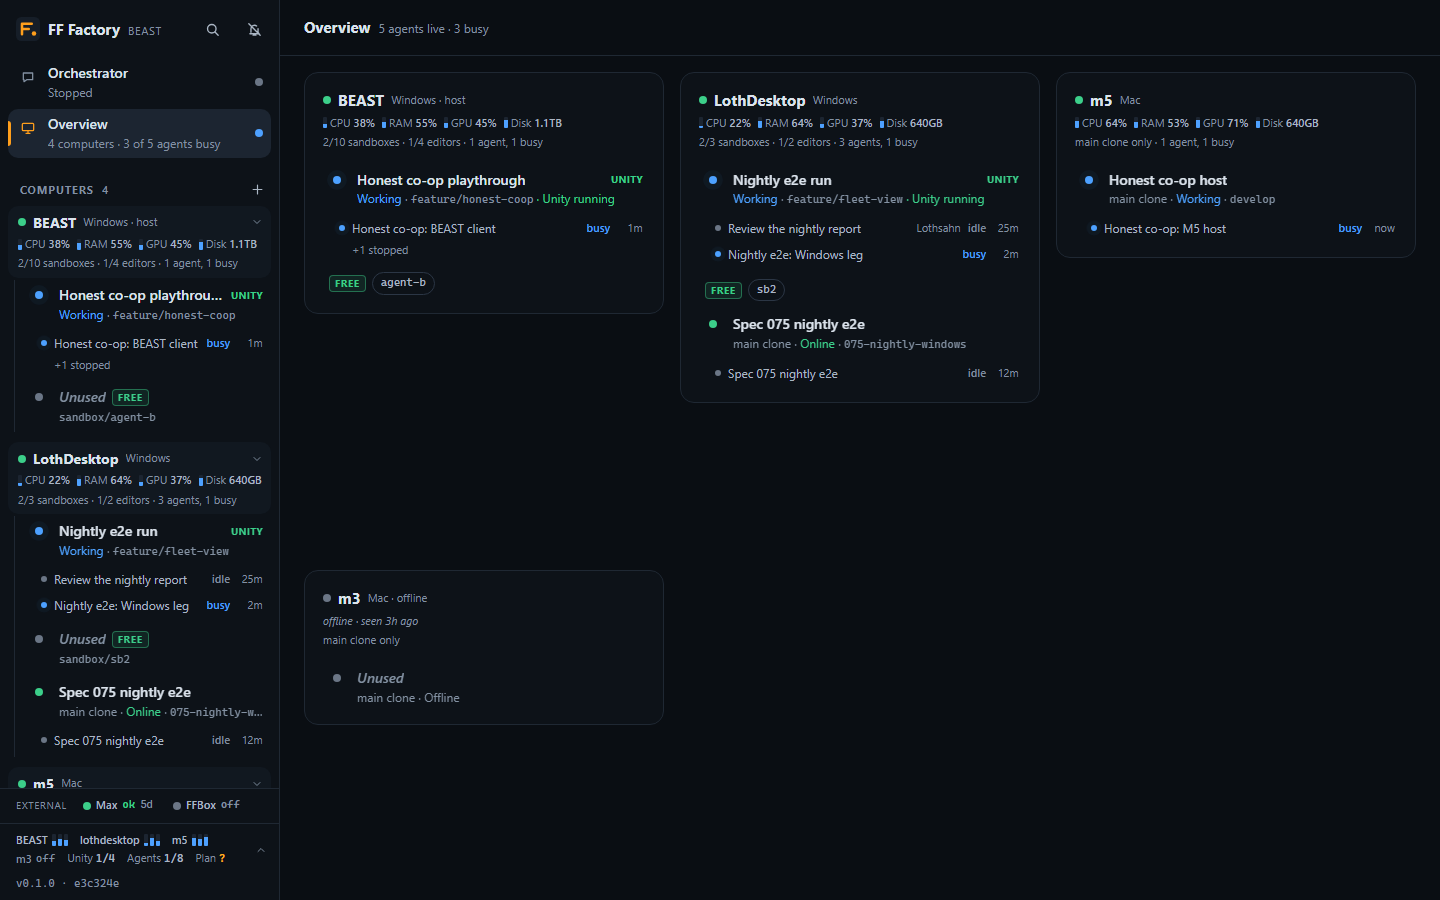
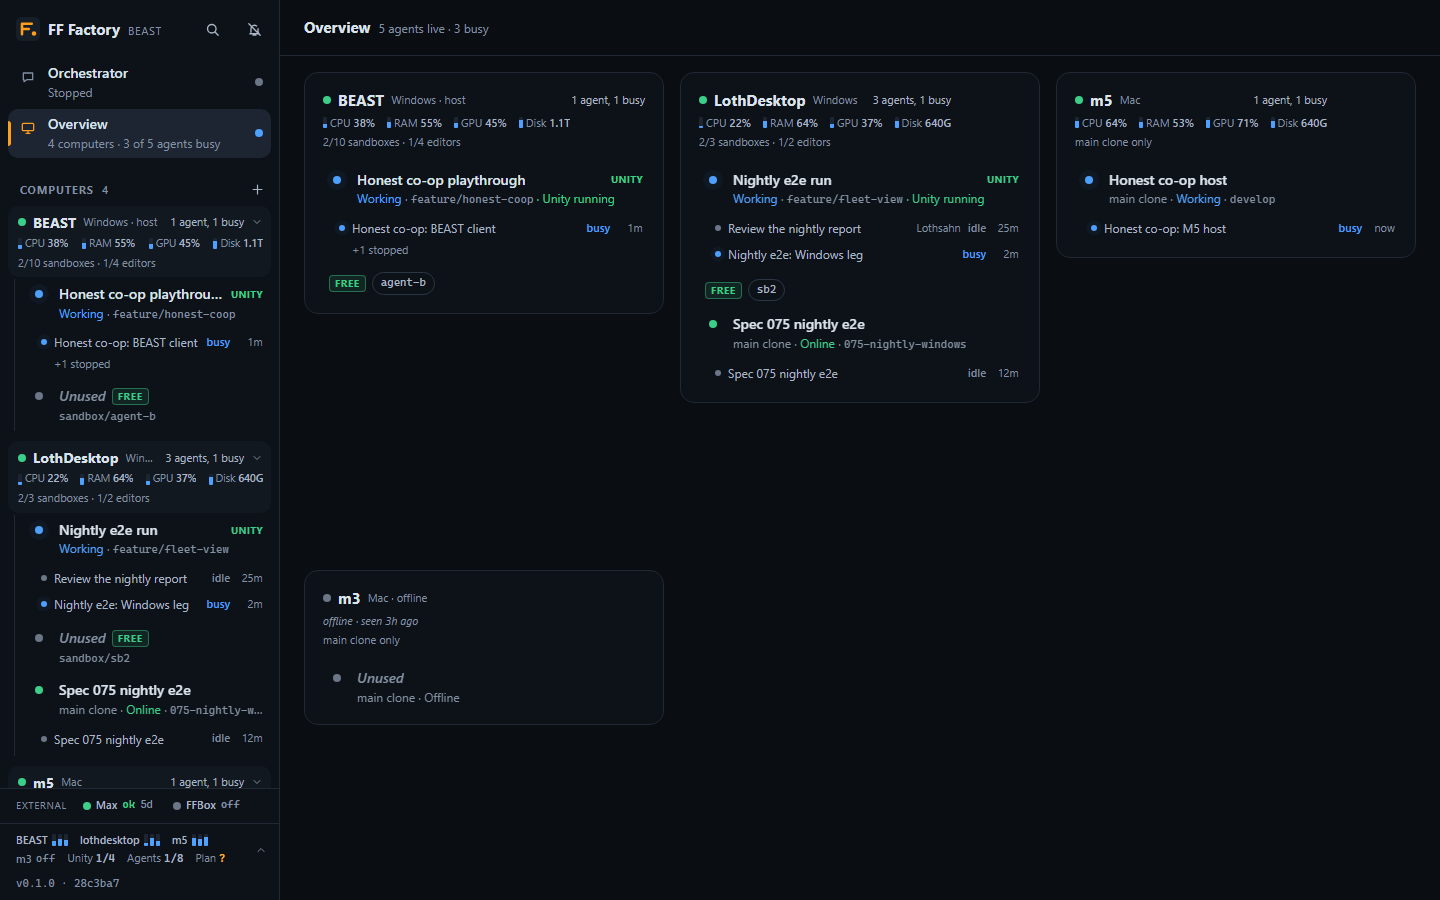
Fleet header fits any font: meters on one grid row, the agent count on the title row
CI's Linux fonts wrapped the sidebar's Disk meter and cut the counts line. The four meters are now one grid row
(10.5px, disk as "1.1T"), "3 agents, 1 busy" moved up beside the name, and the test checks that no meter and
not the counts line is cut short (also tried with every font forced to Verdana). Screenshots re-rendered.

diff --git a/e2e/fleet.spec.ts b/e2e/fleet.spec.ts
@@ -190,13 +190,17 @@ test('fleet: the sidebar groups every computer, with its sandboxes, their agents
 
   const beast = sidebar.getByTestId('fl-group-host');
   await expect(beast.locator('.fl-name')).toHaveText('BEAST');
-  await expect(beast.getByTestId('fl-capacity')).toHaveText('2/10 sandboxes · 1/4 editors · 1 agent, 1 busy');
+  await expect(beast.getByTestId('fl-capacity')).toHaveText('2/10 sandboxes · 1/4 editors');
+  await expect(beast.getByTestId('fl-agents-sum')).toHaveText('1 agent, 1 busy');
   await expect(beast.getByTestId('meter-CPU')).toHaveText('CPU 38%');
   await expect(beast.getByTestId('meter-GPU')).toHaveText('GPU 45%');
-  await expect(beast.getByTestId('meter-Disk')).toHaveText('Disk 1.1TB');
-  // The four meters sit on one line in the sidebar's width.
-  const tops = await beast.locator('.fl-meter').evaluateAll((els) => els.map((e) => Math.round(e.getBoundingClientRect().top)));
-  expect(new Set(tops).size, `meters on ${new Set(tops).size} lines`).toBe(1);
+  await expect(beast.getByTestId('meter-Disk')).toHaveText('Disk 1.1T');
+  // The four meters sit on one line in the sidebar's width, none of them cut.
+  const cells = await beast.locator('.fl-meter').evaluateAll((els) => els.map((e) => ({ top: Math.round(e.getBoundingClientRect().top), cut: e.scrollWidth > e.clientWidth + 1, text: e.textContent })));
+  expect(new Set(cells.map((c) => c.top)).size, 'meters on one line').toBe(1);
+  expect(cells.filter((c) => c.cut).map((c) => c.text), 'meters cut short').toEqual([]);
+  // Nor is the counts line.
+  expect(await beast.getByTestId('fl-capacity').evaluate((e) => e.scrollWidth <= e.clientWidth + 1), 'counts line cut short').toBe(true);
   // A live agent: its title, busy or idle, and how long since it last did something; a stopped one is a count.
   const play = beast.getByTestId('fl-sandbox-agent-a');
   await expect(play.getByTestId('fl-agent')).toHaveCount(1);
@@ -207,7 +211,8 @@ test('fleet: the sidebar groups every computer, with its sandboxes, their agents
   const loth = sidebar.getByTestId('fl-group-lothdesktop');
   await expect(loth.locator('.fl-title')).toContainText('LothDesktop');
   await expect(loth.locator('.fl-title')).toContainText('Windows');
-  await expect(loth.getByTestId('fl-capacity')).toHaveText('2/3 sandboxes · 1/2 editors · 3 agents, 1 busy');
+  await expect(loth.getByTestId('fl-capacity')).toHaveText('2/3 sandboxes · 1/2 editors');
+  await expect(loth.getByTestId('fl-agents-sum')).toHaveText('3 agents, 1 busy');
   const sb1 = loth.getByTestId('fl-sandbox-lothdesktop/sb1');
   await expect(sb1.locator('.row-title')).toHaveText('Nightly e2e run');
   await expect(sb1.locator('.row-sub')).toContainText('Working · feature/fleet-view');
@@ -221,7 +226,8 @@ test('fleet: the sidebar groups every computer, with its sandboxes, their agents
   await expect(main.getByTestId('fl-agent')).toHaveText([/Spec 075 nightly e2e\s*idle\s*12m/]);
 
   // The M5 has no sandbox pool; the M3 is offline.
-  await expect(sidebar.getByTestId('fl-group-m5').getByTestId('fl-capacity')).toHaveText('main clone only · 1 agent, 1 busy');
+  await expect(sidebar.getByTestId('fl-group-m5').getByTestId('fl-capacity')).toHaveText('main clone only');
+  await expect(sidebar.getByTestId('fl-group-m5').getByTestId('fl-agents-sum')).toHaveText('1 agent, 1 busy');
   await expect(sidebar.getByTestId('fl-group-m3').locator('.fl-meters')).toHaveText('offline · seen 3h ago');
   if (!isMobile(page)) await proof(page, 'sidebar');
 });
@@ -256,7 +262,8 @@ test('fleet: the Overview board shows every computer as a card with its live age
   await expect(board.locator('.overview-sum')).toHaveText('5 agents live · 3 busy');
   await expect(board.locator('.board-card')).toHaveCount(4);
   const loth = board.getByTestId('board-lothdesktop');
-  await expect(loth.getByTestId('fl-capacity')).toHaveText('2/3 sandboxes · 1/2 editors · 3 agents, 1 busy');
+  await expect(loth.getByTestId('fl-capacity')).toHaveText('2/3 sandboxes · 1/2 editors');
+  await expect(loth.getByTestId('fl-agents-sum')).toHaveText('3 agents, 1 busy');
   // Free sandboxes are one line of chips on the board; the requester shows on each agent.
   await expect(loth.getByTestId('fl-free-line')).toHaveText(/FREE\s*sb2/);
   await expect(loth.getByTestId('fl-agent').filter({ hasText: 'Review the nightly report' })).toContainText('Lothsahn');

diff --git a/web/src/components/Fleet.tsx b/web/src/components/Fleet.tsx
@@ -82,7 +82,8 @@ function Meters({ c, health, now }: { c: FleetComputer; health?: HostHealth; now
     { label: 'RAM', pct: ramPct(s), text: `${Math.round(ramPct(s))}%`, lvl: ramLvl(s) },
     // "GPU" either way (VRAM in use on a discrete card, how busy it is on Apple Silicon); the hover says which.
     ...(g !== undefined ? [{ label: 'GPU', pct: g, text: `${Math.round(g)}%`, lvl: level(g) }] : []),
-    ...(disk ? [{ label: 'Disk', pct: disk.used, text: fmtBytes(disk.free).replace(' ', ''), lvl: disk.lvl }] : []),
+    // "1.1T" free: the unit's letter only, so the four fit the sidebar on any font.
+    ...(disk ? [{ label: 'Disk', pct: disk.used, text: fmtBytes(disk.free).replace(/ ([KMGT])B$/, '$1'), lvl: disk.lvl }] : []),
   ];
   return (
     <span className="fl-meters" title={describe({ name: c.name, stats: s, online: c.online, host: c.host })}>
@@ -108,6 +109,12 @@ function Head({ c, health, now, fold }: { c: FleetComputer; health?: HostHealth;
         <Dot tone={tone} pulse={tone === 'blue'} title={state} />
         <span className="fl-name">{c.name}</span>
         <span className="fl-os">{[osName(c.platform), c.host ? 'host' : state === 'online' ? '' : state].filter(Boolean).join(' · ')}</span>
+        {c.live > 0 && (
+          <span className="fl-agents-sum" data-testid="fl-agents-sum">
+            {c.live} {c.live === 1 ? 'agent' : 'agents'}
+            {c.busy ? `, ${c.busy} busy` : ''}
+          </span>
+        )}
         {c.attention > 0 && (
           <span className="badge badge-amber" title="Waiting on you">
             {c.attention}
@@ -118,7 +125,6 @@ function Head({ c, health, now, fold }: { c: FleetComputer; health?: HostHealth;
       <Meters c={c} health={health} now={now} />
       <span className="fl-cap" data-testid="fl-capacity">
         {capacityLine(c)}
-        {c.live > 0 && ` · ${c.live} ${c.live === 1 ? 'agent' : 'agents'}${c.busy ? `, ${c.busy} busy` : ''}`}
       </span>
     </>
   );

diff --git a/web/src/styles.css b/web/src/styles.css
@@ -4762,11 +4762,19 @@ body {
 }
 
 .fl-meters {
-  display: flex;
-  flex-wrap: wrap;
-  gap: 2px 7px;
-  font-size: var(--fs-xs);
+  display: grid;
+  grid-auto-flow: column;
+  grid-auto-columns: minmax(0, max-content);
+  justify-content: space-between;
+  gap: 6px;
+  font-size: 10.5px;
   color: var(--text-3);
+}
+
+.board-card .fl-meters {
+  justify-content: start;
+  gap: 12px;
+  font-size: var(--fs-xs);
 }
 
 .fl-meters-off {
@@ -4777,7 +4785,15 @@ body {
   display: inline-flex;
   align-items: center;
   gap: 3px;
+  min-width: 0;
+  overflow: hidden;
   white-space: nowrap;
+}
+
+.fl-agents-sum {
+  flex: none;
+  font-size: var(--fs-xs);
+  color: var(--text-2);
 }
 
 .fl-meter .mbar {
